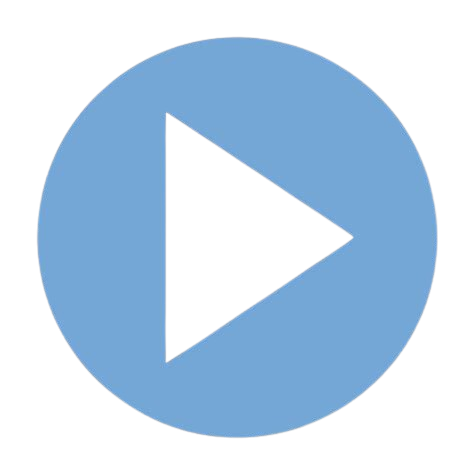
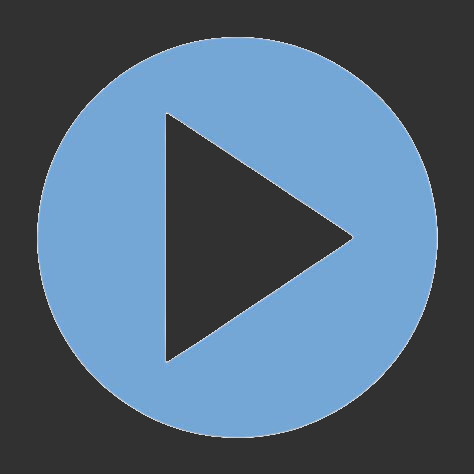
fixed button background, removed fullscreen

diff --git a/scripts/tkInit.py b/scripts/tkInit.py
@@ -5,7 +5,7 @@ import threading
 
 class SpellingApp:
     def __init__(self, root, spellings):
-        self.root = root
+        self.root: tk.Tk = root
         self.spellings = spellings
         self.lastWord = None
         self.word = getWord(self.lastWord, spellings)
@@ -18,12 +18,23 @@ class SpellingApp:
 
     def __repr__(self):
         return f"SpellingApp(score={self.score}, total={self.total}, word='{self.word}')"
+    
+    def center(self):
+        self.root.update_idletasks()
+        width = self.root.winfo_width()
+        height = self.root.winfo_height()
+        screen_width = self.root.winfo_screenwidth()
+        screen_height = self.root.winfo_screenheight()
+        x = (screen_width - width) // 2
+        y = (screen_height - height) // 2
+        self.root.geometry(f"{width}x{height}+{x}+{y}")
 
     def uiSetup(self):
+        self.root.geometry("500x500")
         self.root.title("Spellings")
-        self.root.attributes("-fullscreen", True)
+        #self.root.attributes("-fullscreen", True)
         self.root.bind("<Escape>", lambda e: self.root.attributes("-fullscreen", False))
-
+        self.center()
         frame = tk.Frame(self.root)
         frame.pack(expand=True)
 
@@ -38,9 +49,13 @@ class SpellingApp:
             highlightthickness=0,
             relief="flat",
             bg=frame.cget("bg"),
-            activebackground=frame.cget("bg")
+            activebackground=frame.cget("bg"),
+            highlightbackground=frame.cget("bg"),
+            highlightcolor=frame.cget("bg"),
+            bd=0,
+            takefocus=0
         )
-        self.playButton.pack(pady=10)
+        self.playButton.pack(pady=20)
 
         self.userTextbox = tk.Entry(frame, font=("Arial", 16), width=20)
         self.userTextbox.pack(pady=10)
@@ -109,4 +124,5 @@ def initWindow(spellings: list):
     root = tk.Tk()
     app = SpellingApp(root, spellings)
     app.playWord()
+
     root.mainloop()

diff --git a/scripts/spellingHandler.py b/scripts/spellingHandler.py
@@ -15,8 +15,10 @@ def getWord(last: str | None, spellings: list) -> str:
 def speak(word: str):
     engine = pyttsx3.init()
     engine.setProperty('rate', 150)
+    engine.setProperty("voice", "com.apple.voice.compact.en-GB.Daniel")
     engine.say(word)
     engine.runAndWait()
+    
 
 def checkSpelling(input: str, correct: str):
     return input.strip().lower() == correct.strip().lower()
